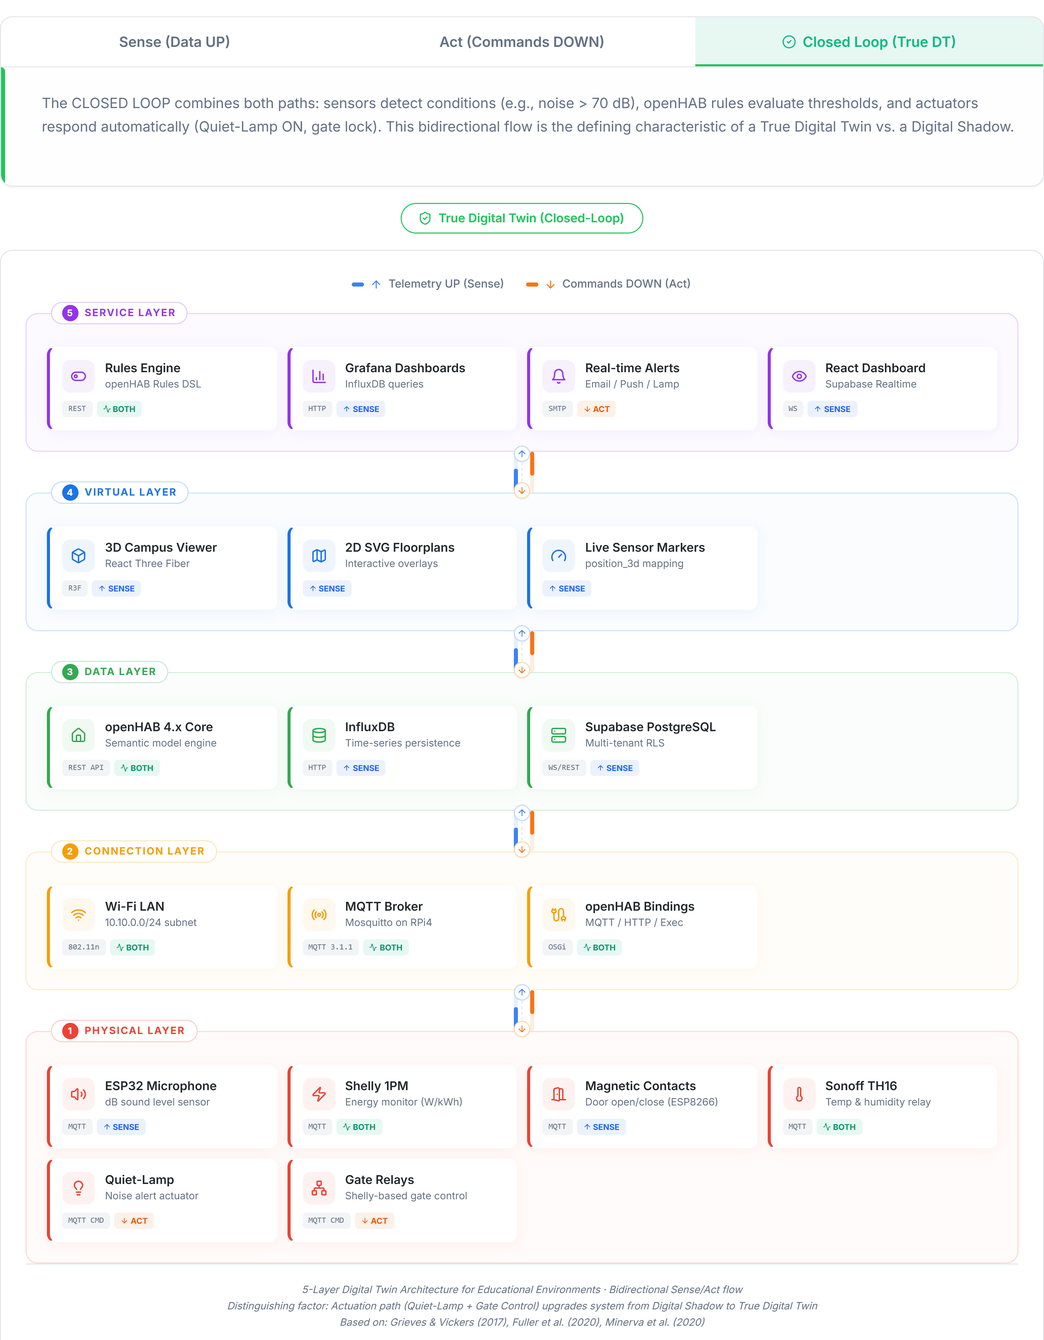
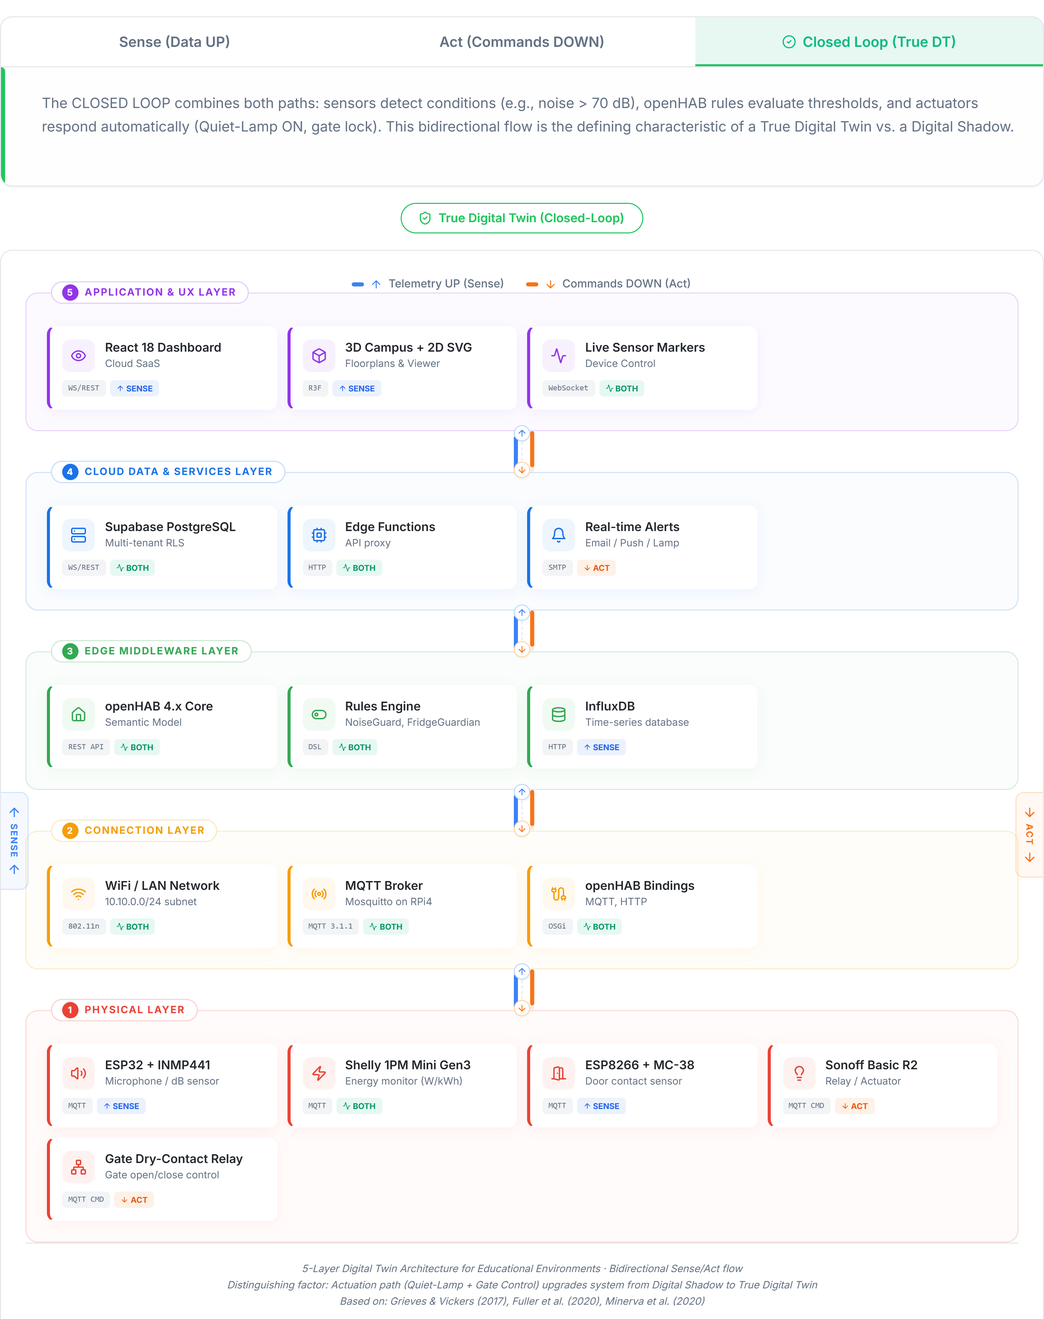
φδ

diff --git a/DOCUMENT/chapter3.tex b/DOCUMENT/chapter3.tex
@@ -88,7 +88,7 @@
 \end{figure}
 
 \section{Η Αρχιτεκτονική των Πέντε Επιπέδων}
-Στην παρούσα υλοποίηση στα Εκπαιδευτήρια Πλάτων, τα πέντε επίπεδα της αρχιτεκτονικής αντιστοιχίζονται σε συγκεκριμένες συσκευές, λογισμικά και υπηρεσίες της εγκατάστασης, όπως αποτυπώνεται σχηματικά στο Σχήμα~\ref{fig:five_layer_architecture}.
+Η αρχιτεκτονική της πλατφόρμας υιοθετεί και προσαρμόζει το θεωρητικό μοντέλο πέντε επιπέδων της βιβλιογραφίας στις απαιτήσεις του σχολικού περιβάλλοντος, όπως αποτυπώνεται στο Σχήμα~\ref{fig:five_layer_architecture}. Τα επίπεδα \textlatin{Physical} και \textlatin{Connection} παραμένουν ως έχουν, ενώ τα επίπεδα \textlatin{Data}, \textlatin{Virtual} και \textlatin{Service} προσαρμόζονται σε \textlatin{Edge Middleware}, \textlatin{Cloud Data and Services} και \textlatin{Application and UX} αντίστοιχα --- αντικατοπτρίζοντας την πραγματική τεχνολογική στοίβα της υλοποίησης.
 
 \begin{figure}[htbp]
 \centering
@@ -98,16 +98,19 @@
 \end{figure}
 
 \subsection{\texorpdfstring{\textlatin{Physical Layer}}{Physical Layer}}
-Στο \textlatin{Physical Layer} εντάσσονται οι πραγματικοί χώροι και ο εξοπλισμός των Εκπαιδευτηρίων Πλάτων: οι ακουστικοί κόμβοι με \textlatin{ESP32} και μικρόφωνα \textlatin{INMP441} στις αίθουσες, οι έξυπνοι μετρητές \textlatin{Shelly 1PM}, οι αισθητήρες θερμοκρασίας \textlatin{DS18B20}, οι μαγνητικές επαφές θυρών στο ψυγείο του κυλικείου, καθώς και οι ενεργοποιητές ρελέ \textlatin{Sonoff Basic R2} που ελέγχουν την \textlatin{quiet-lamp} και τις τοπικές παρεμβάσεις στο πεδίο.
+Το \textlatin{Physical Layer} περιλαμβάνει το σύνολο του υλικού εξοπλισμού της εγκατάστασης: τους κόμβους \textlatin{ESP32/INMP441} για μέτρηση ακουστικής στάθμης στις αίθουσες, τον μετρητή ισχύος \textlatin{Shelly 1PM Mini Gen3} για παρακολούθηση κατανάλωσης ψυγείου, τον κόμβο \textlatin{ESP8266} με μαγνητική επαφή \textlatin{MC-38} για ανίχνευση ανοίγματος θύρας, τα ρελέ \textlatin{Sonoff Basic R2} για έλεγχο \textlatin{quiet-lamp} και \textlatin{buzzer}, και τις \textlatin{dry-contact} επαφές ενοποίησης με τον υπάρχοντα ελεγκτή των αυτόματων πυλών. Όλες οι συσκευές επικοινωνούν ασύρματα μέσω \textlatin{WiFi} με το επόμενο επίπεδο.
 
 \subsection{\texorpdfstring{\textlatin{Connection Layer}}{Connection Layer}}
-Στο \textlatin{Connection Layer} αντιστοιχούν το τοπικό δίκτυο του σχολείου, η \textlatin{Wi-Fi} δικτύωση των \textlatin{edge} συσκευών και το πρωτόκολλο \textlatin{MQTT}, μέσω του οποίου διακινούνται οι μετρήσεις και οι εντολές ελέγχου. Κεντρικός διαμεσολαβητής είναι ο \textlatin{broker Eclipse Mosquitto} στο \textlatin{edge} επίπεδο, ενώ η δρομολόγηση οργανώνεται ιεραρχικά ανά χώρο και υποσύστημα, ώστε να διαχωρίζονται οι ροές τηλεμετρίας από τις εντολές ελέγχου. Με τον τρόπο αυτό υποστηρίζεται η αμφίδρομη λειτουργία του \textlatin{Digital Twin} μεταξύ αιθουσών, κυλικείου και σημείων πρόσβασης του σχολείου.
+Το \textlatin{Connection Layer} αναλαμβάνει τη μεταφορά δεδομένων μεταξύ φυσικών συσκευών και λογισμικού. Ο \textlatin{MQTT broker} \textlatin{Mosquitto} εκτελείται στον \textlatin{Raspberry Pi 4} και δέχεται \textlatin{telemetry} από όλους τους κόμβους. Τα \textlatin{openHAB Bindings} (\textlatin{MQTT Binding}, \textlatin{HTTP Binding}) μεταφράζουν τα μηνύματα σε \textlatin{openHAB Items}, δημιουργώντας ενιαία αναπαράσταση ανεξάρτητα από το πρωτόκολλο κάθε συσκευής.
 
 \subsection{\texorpdfstring{\textlatin{Edge Middleware Layer}}{Edge Middleware Layer}}
-Το \textlatin{Edge Middleware Layer} υλοποιείται από το \textlatin{openHAB}, εγκατεστημένο στο τοπικό \textlatin{edge} περιβάλλον, το οποίο ενοποιεί την τηλεμετρία από τους κόμβους, οργανώνει λειτουργικά τις συσκευές και τους χώρους του σχολείου και εκτελεί τους βασικούς κανόνες αυτοματισμού. Στο ίδιο επίπεδο γίνεται και η προώθηση των επιλεγμένων δομημένων δεδομένων προς το ανώτερο \textlatin{cloud} επίπεδο.
+Το \textlatin{Edge Middleware Layer} αποτελεί τον εγκέφαλο της τοπικής υποδομής και εκτελείται εξ ολοκλήρου στον \textlatin{Raspberry Pi 4}. Το \textlatin{openHAB 4.x Core} με το \textlatin{Semantic Model} (\textlatin{Location}$\rightarrow$\textlatin{Building}$\rightarrow$\textlatin{Floor}$\rightarrow$\textlatin{Room}$\rightarrow$\textlatin{Equipment}$\rightarrow$\textlatin{Point} ιεραρχία) οργανώνει σημασιολογικά όλες τις συσκευές της εγκατάστασης. Ο \textlatin{Rules Engine} υλοποιεί τη λογική αυτοματισμού --- τον κανόνα \textlatin{NoiseGuard} για ακουστική παρέμβαση και τον κανόνα \textlatin{FridgeGuardian} για παρακολούθηση ψυγείου --- κλείνοντας τον βρόχο ελέγχου από το \textlatin{Sense} στο \textlatin{Act}. Η \textlatin{InfluxDB} αποθηκεύει χρονοσειρές τηλεμετρίας για ιστορική ανάλυση.
 
 \subsection{\texorpdfstring{\textlatin{Cloud Data and Services Layer}}{Cloud Data and Services Layer}}
-Το \textlatin{Cloud Data and Services Layer} αντιστοιχεί στο \textlatin{cloud SaaS} περιβάλλον της πλατφόρμας, όπου χρησιμοποιούνται \textlatin{Supabase/PostgreSQL} για υπηρεσίες και αποθήκευση και μεταφέρονται τα επιλεγμένα δομημένα δεδομένα που έχουν ήδη περάσει από το \textlatin{edge middleware}. Το επίπεδο αυτό διαχωρίζει την τοπική συλλογή και τον αυτοματισμό από την αποθήκευση, τη διάθεση υπηρεσιών και την απομακρυσμένη πρόσβαση, επιτρέποντας τη χρήση της πλατφόρμας και από μη τεχνικούς ρόλους χωρίς μεταβολή του φυσικού εξοπλισμού πεδίου.
+Το \textlatin{Cloud Data and Services Layer} παρέχει την απομακρυσμένη αποθήκευση και τις υπηρεσίες \textlatin{backend} της πλατφόρμας. Η \textlatin{Supabase PostgreSQL} αποθηκεύει τη διαμόρφωση της πλατφόρμας, τα δεδομένα χρηστών και τα ιστορικά δεδομένα εγκατάστασης. Οι \textlatin{Supabase Edge Functions} παρέχουν \textlatin{REST API} για επικοινωνία με το \textlatin{frontend} και ενσωμάτωση με το \textlatin{Gemini API} για \textlatin{LLM-based energy forecasting}. Το σύστημα \textlatin{real-time alerts} αποστέλλει αυτόματες ειδοποιήσεις σε ανωμαλίες που εντοπίζει ο \textlatin{Rules Engine}.
+
+\subsection{\texorpdfstring{\textlatin{Application and UX Layer}}{Application and UX Layer}}
+Το \textlatin{Application and UX Layer} παρέχει την τελική διεπαφή προς τον χρήστη μέσω της \textlatin{Cloud SaaS} πλατφόρμας που είναι προσβάσιμη στη διεύθυνση \textlatin{digitaltwin.pi-tech.gr}. Το \textlatin{React 18 dashboard} προσφέρει \textlatin{3D campus visualization} μέσω \textlatin{React Three Fiber}, \textlatin{2D SVG floor plans} με κατάσταση αιθουσών, \textlatin{real-time} παρακολούθηση αισθητήρων και αμφίδρομο έλεγχο συσκευών. Η πρόσβαση διέπεται από \textlatin{RBAC} πολυεπίπεδης εξουσιοδότησης με ξεχωριστούς ρόλους για διαχειριστή και χρήστη.
 
 \section{Σημασιολογική Οργάνωση και Διαλειτουργικότητα}
 Η παρούσα πλατφόρμα σχεδιάστηκε με έμφαση στη διαλειτουργικότητα, ώστε να μην περιορίζεται σε νέες συσκευές \textlatin{IoT}, αλλά να μπορεί να ενοποιεί και υφιστάμενες εγκαταστάσεις του σχολείου. Χαρακτηριστικό παράδειγμα αποτελεί η διασύνδεση με το ήδη εγκατεστημένο σύστημα αυτόματων πυλών, το οποίο εντάχθηκε στο ενιαίο περιβάλλον ελέγχου χωρίς αντικατάσταση του φυσικού εξοπλισμού, αλλά μέσω λογισμικής διασύνδεσης και κοινής διαχείρισης κατάστασης.

diff --git a/DOCUMENT/chapter2.tex b/DOCUMENT/chapter2.tex
@@ -16,7 +16,7 @@
 
 \subsection{Η Αρχιτεκτονική Πέντε Επιπέδων (\textlatin{5-Layer Architecture})}
 \nocite{Doulka2024}
-Για την επιτυχή υλοποίηση ενός Ψηφιακού Διδύμου σε πολύπλοκα περιβάλλοντα, όπως είναι ένα σχολικό συγκρότημα (\textlatin{Smart Campus}), η αρχιτεκτονική πέντε επιπέδων που υιοθετείται στην παρούσα εργασία βασίζεται στη σύνθεση των προτύπων που προτείνουν οι \textlatin{Han et al.} \cite{Han2022} για έξυπνες πανεπιστημιουπόλεις και οι \textlatin{Fuller et al.} \cite{Fuller2020} για Ψηφιακά Δίδυμα γενικότερα, αξιοποιώντας την ιεράρχηση \textlatin{Physical, Connection, Data, Virtual} και \textlatin{Service layers} με αμφίδρομη ροή \textlatin{Sense~$\uparrow$ / Act~$\downarrow$}. Το μοντέλο αυτό υιοθετήθηκε επειδή διασφαλίζει την επεκτασιμότητα (\textlatin{scalability}) και τη διαλειτουργικότητα (\textlatin{interoperability}) του συστήματος. Αξίζει να σημειωθεί ότι στη βιβλιογραφία απαντώνται και εναλλακτικές \textlatin{DT} αρχιτεκτονικές με διαφορετικές προτεραιότητες. Οι \textlatin{Temperekidis et al.} \cite{Temperekidis2023} προτείνουν αρχιτεκτονική βασισμένη σε \textlatin{compositional simulation} με \textlatin{formal analysis capabilities}, στοχεύοντας σε αυτόνομα συστήματα με απαιτήσεις επαλήθευσης ορθότητας. Η προσέγγιση αυτή διαφέρει ουσιαστικά από την πρακτική \textlatin{5-Layer} αρχιτεκτονική που υιοθετείται στην παρούσα εργασία, η οποία εστιάζει στην επεκτασιμότητα και τη διαλειτουργικότητα σε κτιριακό περιβάλλον χαμηλού κόστους. Η αναλυτική περιγραφή της αρχιτεκτονικής και η εφαρμογή της στην παρούσα πλατφόρμα παρουσιάζεται στο Κεφάλαιο 3.5. Στην παρούσα εργασία το μοντέλο αυτό υιοθετείται και προσαρμόζεται στις απαιτήσεις του σχολικού περιβάλλοντος --- με τα επίπεδα \textlatin{Data} και \textlatin{Virtual} να αντικαθίστανται από ένα \textlatin{Edge Middleware} επίπεδο (\textlatin{openHAB}) και ένα \textlatin{Cloud Data and Services} επίπεδο (\textlatin{Supabase/React}), όπως περιγράφεται αναλυτικά στο Κεφάλαιο 3.5.
+Για την επιτυχή υλοποίηση ενός Ψηφιακού Διδύμου σε πολύπλοκα περιβάλλοντα, όπως είναι ένα σχολικό συγκρότημα (\textlatin{Smart Campus}), η αρχιτεκτονική πέντε επιπέδων που υιοθετείται στην παρούσα εργασία βασίζεται στη σύνθεση των προτύπων που προτείνουν οι \textlatin{Han et al.} \cite{Han2022} για έξυπνες πανεπιστημιουπόλεις και οι \textlatin{Fuller et al.} \cite{Fuller2020} για Ψηφιακά Δίδυμα γενικότερα. Οι \textlatin{Han et al.} \cite{Han2022} προτείνουν αρχιτεκτονική που περιλαμβάνει \textlatin{physical domain}, \textlatin{virtual domain}, \textlatin{service platform}, \textlatin{data platform} και \textlatin{connection} --- στοιχεία που η παρούσα εργασία υιοθετεί και αναδιατάσσει σε πέντε επίπεδα με σαφή ιεραρχία ροής δεδομένων, προσαρμοσμένα στις απαιτήσεις κτιριακού περιβάλλοντος χαμηλού κόστους. Το μοντέλο αυτό υιοθετήθηκε επειδή διασφαλίζει την επεκτασιμότητα (\textlatin{scalability}) και τη διαλειτουργικότητα (\textlatin{interoperability}) του συστήματος. Αξίζει να σημειωθεί ότι στη βιβλιογραφία απαντώνται και εναλλακτικές \textlatin{DT} αρχιτεκτονικές με διαφορετικές προτεραιότητες. Οι \textlatin{Temperekidis et al.} \cite{Temperekidis2023} προτείνουν αρχιτεκτονική βασισμένη σε \textlatin{compositional simulation} με \textlatin{formal analysis capabilities}, στοχεύοντας σε αυτόνομα συστήματα με απαιτήσεις επαλήθευσης ορθότητας. Η προσέγγιση αυτή διαφέρει ουσιαστικά από την πρακτική \textlatin{5-Layer} αρχιτεκτονική που υιοθετείται στην παρούσα εργασία, η οποία εστιάζει στην επεκτασιμότητα και τη διαλειτουργικότητα σε κτιριακό περιβάλλον χαμηλού κόστους. Η αναλυτική περιγραφή της αρχιτεκτονικής και η εφαρμογή της στην παρούσα πλατφόρμα παρουσιάζεται στο §3.4. Στην παρούσα εργασία το μοντέλο προσαρμόζεται ως εξής: τα επίπεδα \textlatin{Physical} και \textlatin{Connection} παραμένουν αναλλοίωτα, ενώ τα επίπεδα \textlatin{Data}, \textlatin{Virtual} και \textlatin{Service} εξειδικεύονται σε \textlatin{Edge Middleware} (\textlatin{openHAB/InfluxDB}), \textlatin{Cloud Data and Services} (\textlatin{Supabase/Edge Functions}) και \textlatin{Application and UX} (\textlatin{React Dashboard}) αντίστοιχα --- όπως περιγράφεται αναλυτικά στο §3.4.
 
 \section{Έξυπνες Πανεπιστημιουπόλεις (\textlatin{Smart Campuses}) και το Ευρωπαϊκό Πλαίσιο}
 Η εφαρμογή των Ψηφιακών Διδύμων έχει αρχίσει να μετατοπίζεται από την αμιγώς βιομηχανική παραγωγή (\textlatin{Industry 4.0}) στον αστικό και κτιριακό τομέα, στοχεύοντας στη δημιουργία Έξυπνων Πόλεων (\textlatin{Smart Cities}) και Έξυπνων Σχολικών Υποδομών (\textlatin{Smart Campuses}).
